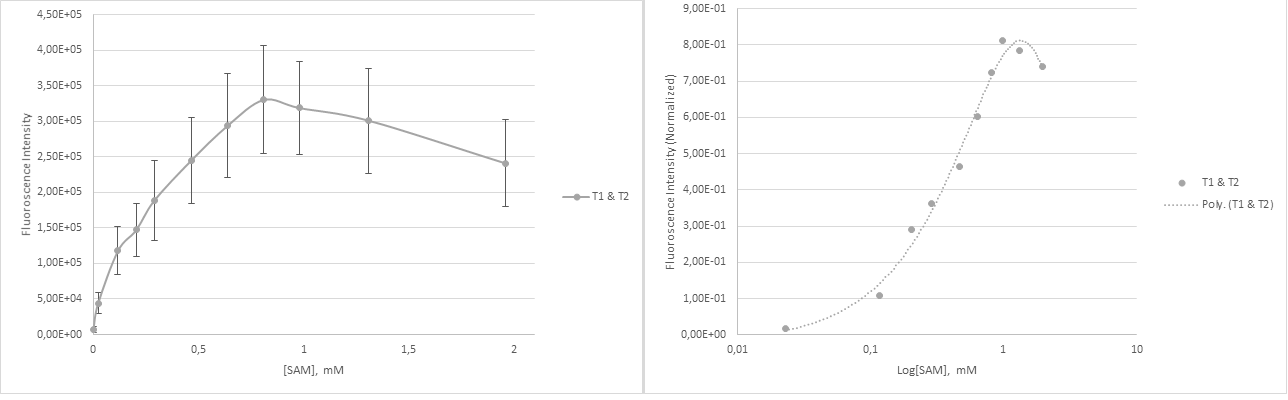
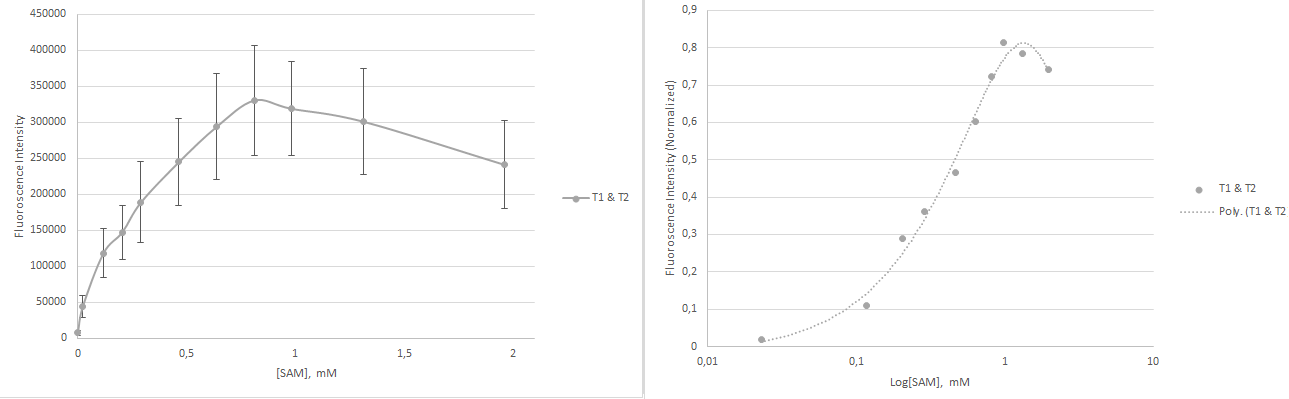
pics

diff --git a/results.html b/results.html
@@ -63,11 +63,11 @@ The mutated RNA constructs were tested for concentration dependency by a series 
 
 <p>Some mutations induced a fluorescence response while others did not. The constructs with mutations in the detection aptamer showed no enhancements in fluorescence. This may be the result of the high binding specificity of the aptamer, which means none of the bases can be interchanged without disrupting binding of SAM. 
 
-<br>The constructs with mutations in the linker region were more promising. Two constructs responded to variations in SAM concentrations; T1 and T2. T1 showed a fluorescence enhancement of 3.8 while T2 was enhanced by a factor of 9.6. T1 has an unmutated linker region while T2 has a mutated GC to AU-basepair. These two constructs were selected for further investigation. The Kd value was determined based on fluorescent measurements made with small increments in the addition of SAM. The results are shown in Figure 6. </p>
+<br>The constructs with mutations in the linker region were more promising. Two constructs responded to variations in SAM concentrations; T1 and T2. T1 showed a fluorescence enhancement of 3.8 while T2 was enhanced by a factor of 9.6. T1 has an unmutated linker region while T2 has a mutated GC to AU-basepair. These two constructs were selected for further investigation. The K<sub>d</sub> value was determined based on fluorescent measurements made with small increments in the addition of SAM. The results are shown in Figure 6. </p>
 
 <img src="{{ site.baseurl }}/img/results/kddata2ny.png" class="img-responsive img-center">
 <div class="row">
-	<div class="col-md-10 col-md-offset-1 figure-text">Figure 6: left) Normalized fluorescence intensity as a function of SAM concentration plotted on a logarithmic scale for T1 and T2. right) Normalized fluorescence intensity as a function of SAM concentration for T1 and T2. All measurements were triplicates. The individual constructs measurements were normalized based on DFHBI fluorescence. Furthermore, to compare the constructs they were normalized to the overall maximum fluorescence.</div>
+	<div class="col-md-10 col-md-offset-1 figure-text">Figure 6: left) Fluorescence intensity as a function of SAM concentration for T1 and T2. right) Fluorescence intensity as a function of SAM concentration for T1 and T2 on a logarithmic scale. The series were normalized to the highest total fluorescence of either T1 or T2 before the average was taken. All measurements were triplicates and DFHBI fluorescence was subtracted before plotting.</div>
 </div>   
 
 <p>To determine the K<sub>d</sub> value the measurements were fitted with a degree three polynomium. The K<sub>d</sub> value was found as the concentration of SAM that lead to fluorescence at half of the maximum fluorescent intensity - that is, the concentration of SAM corresponding to 50% saturation of the construct. The K<sub>d</sub> values were 286 µM and 202 µM for T1 and T2, respectively. The mutation in T2 made its linker region less stable than that of T1, and surprisingly more dependent on the target molecule. Counterintuitively, the least stable construct was most responsive towards the target molecule.<br>
@@ -76,7 +76,7 @@ The apparent K<sub>d</sub> value was calculated to be 222 µM, which shows that 
 
 <img src="{{ site.baseurl }}/img/results/kddata3.png" class="img-responsive img-center">
 <div class="row">
-	<div class="col-md-10 col-md-offset-1 figure-text">Figure 7: left) Normalized fluorescence intensity as a function of SAM concentration plotted on a logarithmic scale for a 1:1 mixture of T1 and T2. right) Normalized fluorescence intensity as a function of SAM concentration for a 1:1 mixture of T1 and T2. All measurements were triplicates. The measurements on the mixture of constructs were normalized based on DFHBI fluorescence.</div>
+	<div class="col-md-10 col-md-offset-1 figure-text">Figure 7: left) Fluorescence intensity as a function of SAM concentration for a 1:1 mixture of T1 and T2. right) Fluorescence intensity as a function of SAM concentration for a 1:1 mixture of T1 and T2 on a logarithmic scale. The series were normalized to the highest total fluorescence before the average was taken. All measurements were duplicates and DFHBI fluorescence was subtracted before plotting.</div>
 </div> 
 
 <p>
